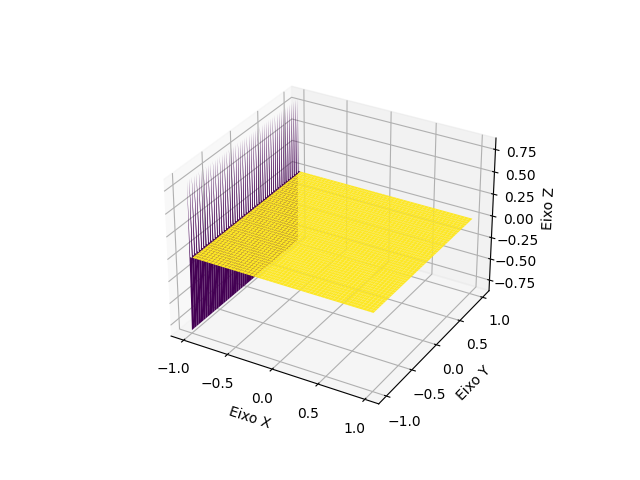
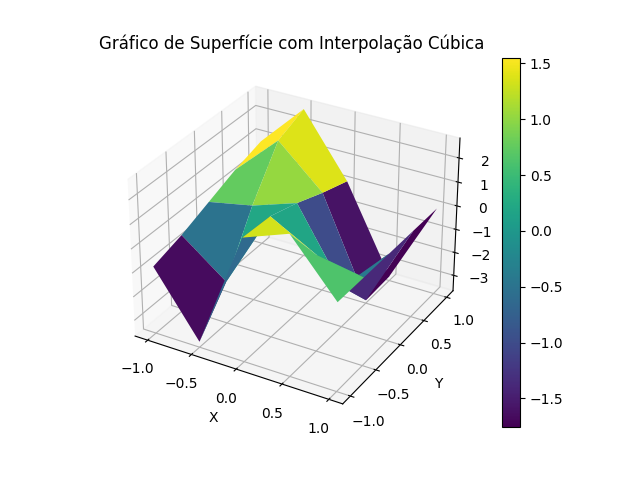
hunf

Changed region(s): [[0.1875, 0.0938, 0.875, 0.9062], [0.1562, 0.0625, 0.75, 0.125], [0.1875, 0.5, 0.2188, 0.5312]]

diff --git a/01/functions.py b/01/functions.py
@@ -5,7 +5,8 @@ import matplotlib.pyplot as plt
 from scipy import sparse
 from scipy.sparse.linalg import spsolve
 from scipy.interpolate import CubicSpline
-from scipy.interpolate import interp1d
+from scipy.interpolate import interp2d
+from scipy.interpolate import RegularGridInterpolator
 
 
 def imprime_matriz(A):
@@ -85,6 +86,17 @@ def aprox_u(a, b, h, tam_malha, k_2):
     A = sparse.kron((I - I_1), D_h) + sparse.kron(I_1, T) + \
         sparse.kron(I_2, I_h)
 
+    # Criar um DataFrame pandas a partir da matriz densa
+    df = pd.DataFrame(A.toarray())
+
+    # Configurar opções de exibição do pandas para mostrar toda a matriz
+    pd.set_option('display.max_columns', None)
+    pd.set_option('display.max_rows', None)
+
+    # Imprimir a matriz usando o método to_string()
+    # print(df.to_string(index=False, header=False))
+    np.savetxt('matriz.txt', df)
+
     F = np.zeros((tam_malha**2, 1))
 
     for i in range(tam_malha+1):
@@ -98,34 +110,37 @@ def aprox_u(a, b, h, tam_malha, k_2):
 # Função que plota os valores de referência
 def plot_referencia(a, b, tam_malha, valores_ref):
     # Cria um conjunto de pontos na superfície
-    x = np.linspace(a, b, tam_malha*tam_malha)
-    y = np.linspace(a, b, tam_malha*tam_malha)
+    x = np.linspace(a, b, tam_malha)
+    y = np.linspace(a, b, tam_malha)
+
+    # f = interp2d(x, y, valores_ref, kind='cubic')
+    # z = f(x, y)
+
+    z = valores_ref.reshape((tam_malha, tam_malha))
 
     X, Y = np.meshgrid(x, y)
 
-    # Criamos a interpolacao
-    # Definindo os pontos a serem aproximados
-    x_spline = np.linspace(a, b, tam_malha*tam_malha)
-    y_spline = valores_ref
-    f = interp1d(x_spline, y_spline, kind='cubic')
-
-    # Criando a spline cúbica
-    Z = f(X)
-
-    # Cria uma figura 3D
+    # Criando figura e eixos 3D
     fig = plt.figure()
-    ax = plt.axes(projection='3d')
+    ax = fig.add_subplot(111, projection='3d')
 
-    # Plota a superfície
-    ax.plot_surface(X, Y, Z, cmap='viridis')
+    # Plotando gráfico de superfície
+    surf = ax.plot_surface(X, Y, z, cmap=plt.cm.viridis,
+                           rcount=tam_malha, ccount=tam_malha)
 
-    # Configura os rótulos dos eixos
-    ax.set_xlabel('Eixo X')
-    ax.set_ylabel('Eixo Y')
-    ax.set_zlabel('Eixo Z')
+    # Configurando eixos e título
+    ax.set_xlabel('X')
+    ax.set_ylabel('Y')
+    ax.set_zlabel('Z')
+    ax.set_title('Gráfico de Superfície com Interpolação Cúbica')
 
-    # plt.show()
-    plt.savefig('resultados/ref.png')
+    # Adicionando barra de cores
+    fig.colorbar(surf)
+
+    plt.show()
+    # plt.savefig('resultados/ref.png')
+
+    return
 
 
 # Função que calcula as malhas
@@ -180,15 +195,21 @@ def plot_convergencia(h, erro):
     # for i, j in zip(h, erro):
     #     ax.annotate(str(j), xy=(i, j))
 
-    # posicoes = [i+1 for i in range(len(h))]
+    # ========================================
 
-    # plt.figure(figsize=(8, 6))
-    # plt.scatter(posicoes, erro, c='red', marker='o', label='Pontos')
-    # plt.xlabel('H', fontdict={'fontsize': 14, 'fontweight': 'bold'})
-    # plt.ylabel('Erro', fontdict={
-    #            'fontsize': 14, 'fontweight': 'bold'})
-    # plt.title('Valor da Função Objetivo', fontdict={
-    #           'fontsize': 16, 'fontweight': 'bold'})
-    # plt.grid(color='gray', linestyle='--')
+    # f = interp1d(posicoes, erro, kind='cubic')
+    print(erro)
+
+    f = CubicSpline(h, erro)
+    z = f(h)
+
+    plt.figure(figsize=(8, 6))
+    plt.scatter(h, z, c='red', marker='o', label='Pontos')
+    plt.xlabel('H', fontdict={'fontsize': 14, 'fontweight': 'bold'})
+    plt.ylabel('Erro', fontdict={
+               'fontsize': 14, 'fontweight': 'bold'})
+    plt.title('Valor da Função Objetivo', fontdict={
+              'fontsize': 16, 'fontweight': 'bold'})
+    plt.grid(color='gray', linestyle='--')
 
     plt.savefig('resultados/convergencia.png')

diff --git a/01/main.py b/01/main.py
@@ -6,25 +6,25 @@ b = 1
 k_2 = 10
 
 # Cálculo da solução de referência
-h_ref = 1/64
+h_ref = 1/2
 tam_malha = tamanho_malha(a, b, h_ref)
 
 valores_ref = aprox_u(a, b, h_ref, tam_malha, k_2)
 
 # Grafico dos valores de referencia
-plot_referencia(a, b, tam_malha, valores_ref)
+# plot_referencia(a, b, tam_malha, valores_ref)
 
 # Vetor dos valores de h
-h = [1/2, 1/4, 1/8]
+# h = [1/8, 1/4, 1/2]
 
 # Criação da malha e dos valores_h
-valores_h = valores_h_calc(a, b, h, tam_malha, k_2)
+# valores_h = valores_h_calc(a, b, h, tam_malha, k_2)
 
 # Vetor dos truncamentos dos valores da malha analisada e da malha da solução de referência
-erro = truncamento_vet(h, valores_ref, valores_h)
+# erro = truncamento_vet(h, valores_ref, valores_h)
 
 # Gerando tabela de resultados
-tabela_resultados(h, erro)
+# tabela_resultados(h, erro)
 
 # Plotagem da convergência do método
-plot_convergencia(h, erro)
+# plot_convergencia(h, erro)
